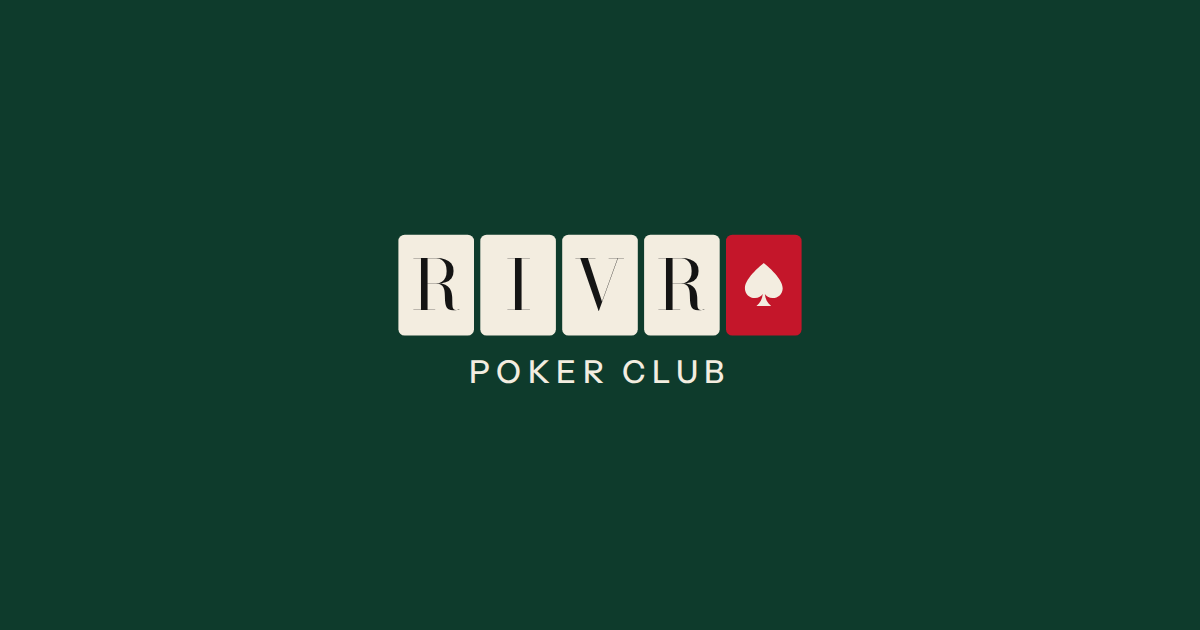
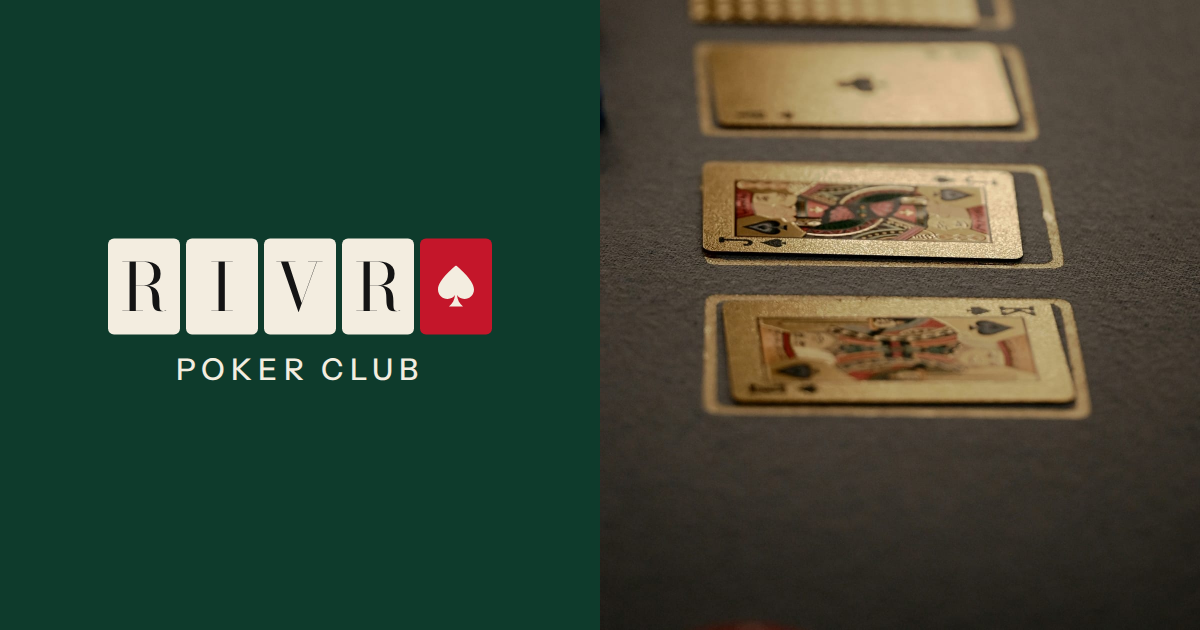
feat(brand): the share image is the lockup beside a photograph of the game (AS-09)

diff --git a/packages/ui/src/BrandArt/BrandArt.tsx b/packages/ui/src/BrandArt/BrandArt.tsx
@@ -7,15 +7,38 @@ import { Wordmark, WordmarkCard } from '../Wordmark/Wordmark.tsx';
  * `icon`: an app icon, the red card filling its middle. `maskable`: a PWA icon that may be cut to any
  * shape, the card inside the safe circle. `adaptive`: an Android adaptive icon's foreground, the card
  * inside the safe zone. `lockup`: the wordmark and tagline, for splash screens, profile images and covers;
- * animated (`isAnimated`), the logo animation for reels and the TV.
+ * animated (`isAnimated`), the logo animation for reels and the TV. `share`: the image a shared link shows, the lockup
+ * on the green beside `backdrop`, a photograph of the game (UI polish audit AS-09).
  */
-export type BrandArtKind = 'icon' | 'maskable' | 'adaptive' | 'lockup';
+export type BrandArtKind = 'icon' | 'maskable' | 'adaptive' | 'lockup' | 'share';
 
 /**
  * Brand art for @rivr/render's brand kit: drawn once on a fixed square stage, then scaled to fit the
  * page and centred on the green, so one design serves every icon, splash and cover size crisply.
  */
-export function BrandArt({ art, isAnimated = false }: { art: BrandArtKind; isAnimated?: boolean }) {
+export function BrandArt({ art, isAnimated = false, backdrop }: { art: BrandArtKind; isAnimated?: boolean; backdrop?: string }) {
+  if (art === 'share') return <ShareArt backdrop={backdrop ?? ''} />;
+  return <StageArt art={art} isAnimated={isAnimated} />;
+}
+
+/** A shared link's image: the lockup on the green, scaled to fill its half, and the photograph beside it, cropped to fill. */
+function ShareArt({ backdrop }: { backdrop: string }) {
+  const stage = tokens.brand.lockup;
+  // The lockup's stage fits the left half: a stage twice as wide fits the whole page.
+  const scale = useFitScale(stage * 2, stage);
+  return (
+    <div className="grid h-dvh w-full grid-cols-2 overflow-hidden bg-surface">
+      <div className="flex items-center justify-center overflow-hidden">
+        <div className="flex shrink-0 items-center justify-center" style={{ width: stage, height: stage, transform: `scale(${scale})` }}>
+          <Wordmark size="lg" withTagline align="center" />
+        </div>
+      </div>
+      <img src={backdrop} alt="" className="size-full object-cover" />
+    </div>
+  );
+}
+
+function StageArt({ art, isAnimated }: { art: Exclude<BrandArtKind, 'share'>; isAnimated: boolean }) {
   const stage = tokens.brand[art];
   const scale = useFitScale(stage, stage);
   return (

diff --git a/packages/render/src/brandKit.ts b/packages/render/src/brandKit.ts
@@ -4,6 +4,8 @@ import type { BrandArtKind } from '@rivr/ui';
 export interface BrandOutput {
   readonly path: string;
   readonly art: BrandArtKind;
+  /** For `share`: the photograph beside the lockup, as the render host serves it (src/host/public). */
+  readonly backdrop?: string;
   readonly width: number;
   readonly height: number;
 }
@@ -63,7 +65,7 @@ function website(): BrandOutput[] {
   return [
     { path: `${pub}/icons/favicon-32.png`, art: 'icon', width: 32, height: 32 },
     { path: `${pub}/icons/apple-touch-icon.png`, art: 'icon', width: 180, height: 180 },
-    { path: `${pub}/og-image.png`, art: 'lockup', width: 1200, height: 630 },
+    { path: `${pub}/og-image.png`, art: 'share', backdrop: '/brand/share-photo.jpg', width: 1200, height: 630 },
   ];
 }
 

diff --git a/packages/render/scripts/render-brand-kit.ts b/packages/render/scripts/render-brand-kit.ts
@@ -19,7 +19,8 @@ execFileSync('pnpm', ['--filter', '@rivr/ui', 'build'], { stdio: 'inherit' });
 await buildRenderHost();
 for (const output of BRAND_KIT) {
   const file = fileURLToPath(new URL(output.path, REPOSITORY));
-  const png = await renderToPng({ template: 'brand.art', props: { art: output.art }, width: output.width, height: output.height });
+  const props = output.backdrop === undefined ? { art: output.art } : { art: output.art, backdrop: output.backdrop };
+  const png = await renderToPng({ template: 'brand.art', props, width: output.width, height: output.height });
   mkdirSync(dirname(file), { recursive: true });
   writeFileSync(file, png);
 }

diff --git a/packages/ui/src/BrandArt/BrandArt.stories.tsx b/packages/ui/src/BrandArt/BrandArt.stories.tsx
@@ -21,5 +21,8 @@ export const Adaptive: Story = { args: { art: 'adaptive' } };
 
 export const Lockup: Story = { args: { art: 'lockup' } };
 
+/** A shared link's image (1200 by 630), here with one of the website's stills behind it. */
+export const Share: Story = { args: { art: 'share', backdrop: '/media/chips.webp' } };
+
 /** The logo animation, as @rivr/render draws it to MP4. Screenshots show its last frame: the lockup. */
 export const AnimatedLockup: Story = { args: { art: 'lockup', isAnimated: true } };

diff --git a/packages/render/src/host/public/brand/README.md b/packages/render/src/host/public/brand/README.md
@@ -1,0 +1,3 @@
+`share-photo.jpg`: gold playing cards on grey felt, by an Unsplash photographer (photo `t5V5B90KjDw`), under the
+Unsplash License (free for commercial use, no attribution required). Cropped to the board and resized for the website's
+share image (`og-image.png`, brand kit `share`). A placeholder until the club's own shoot (decision 0289).
